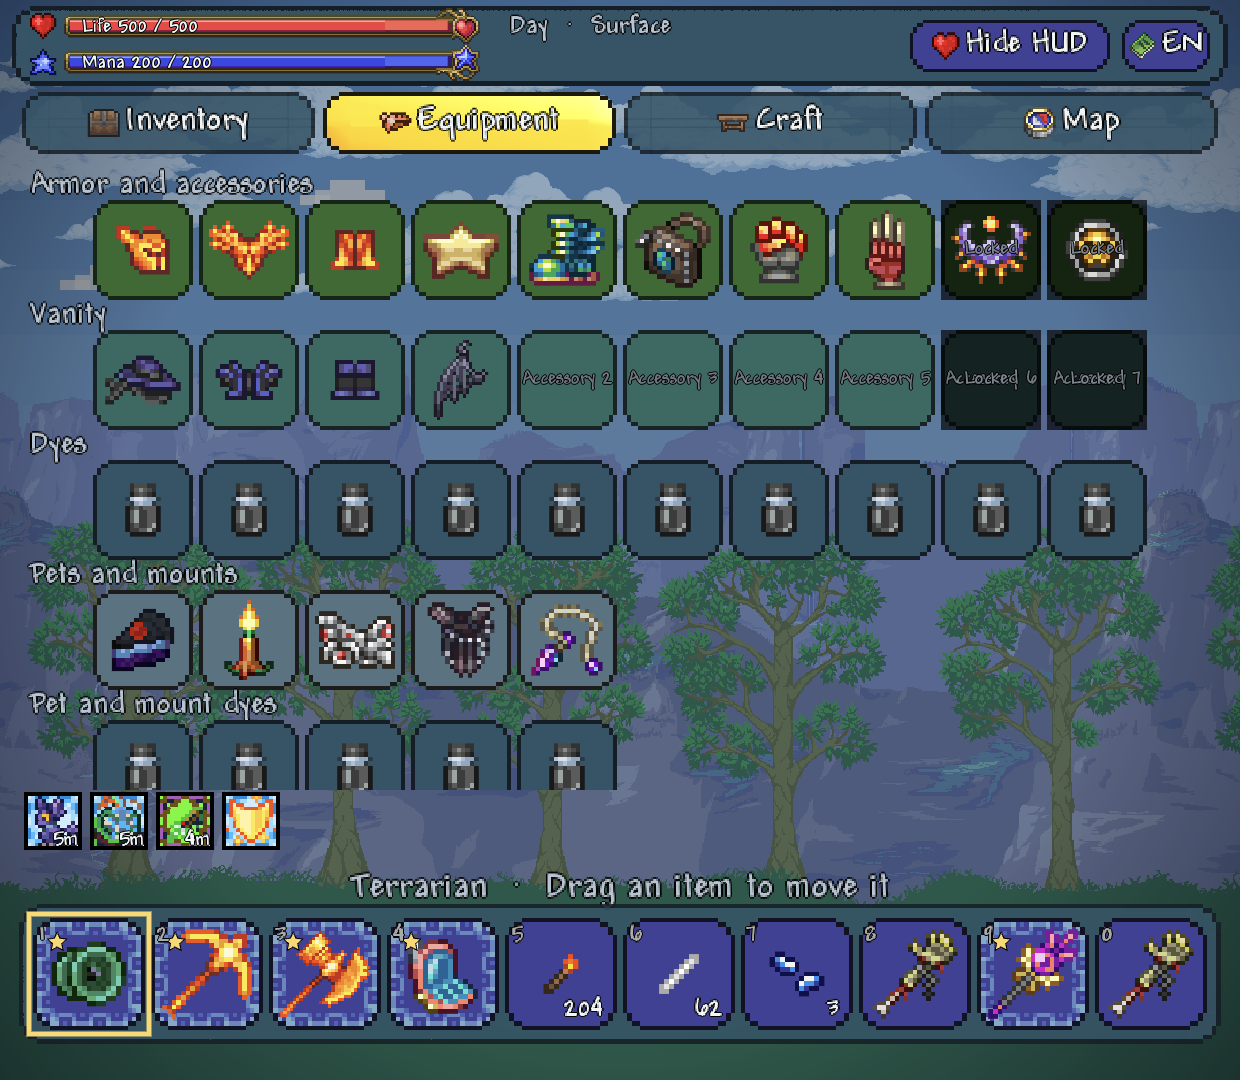
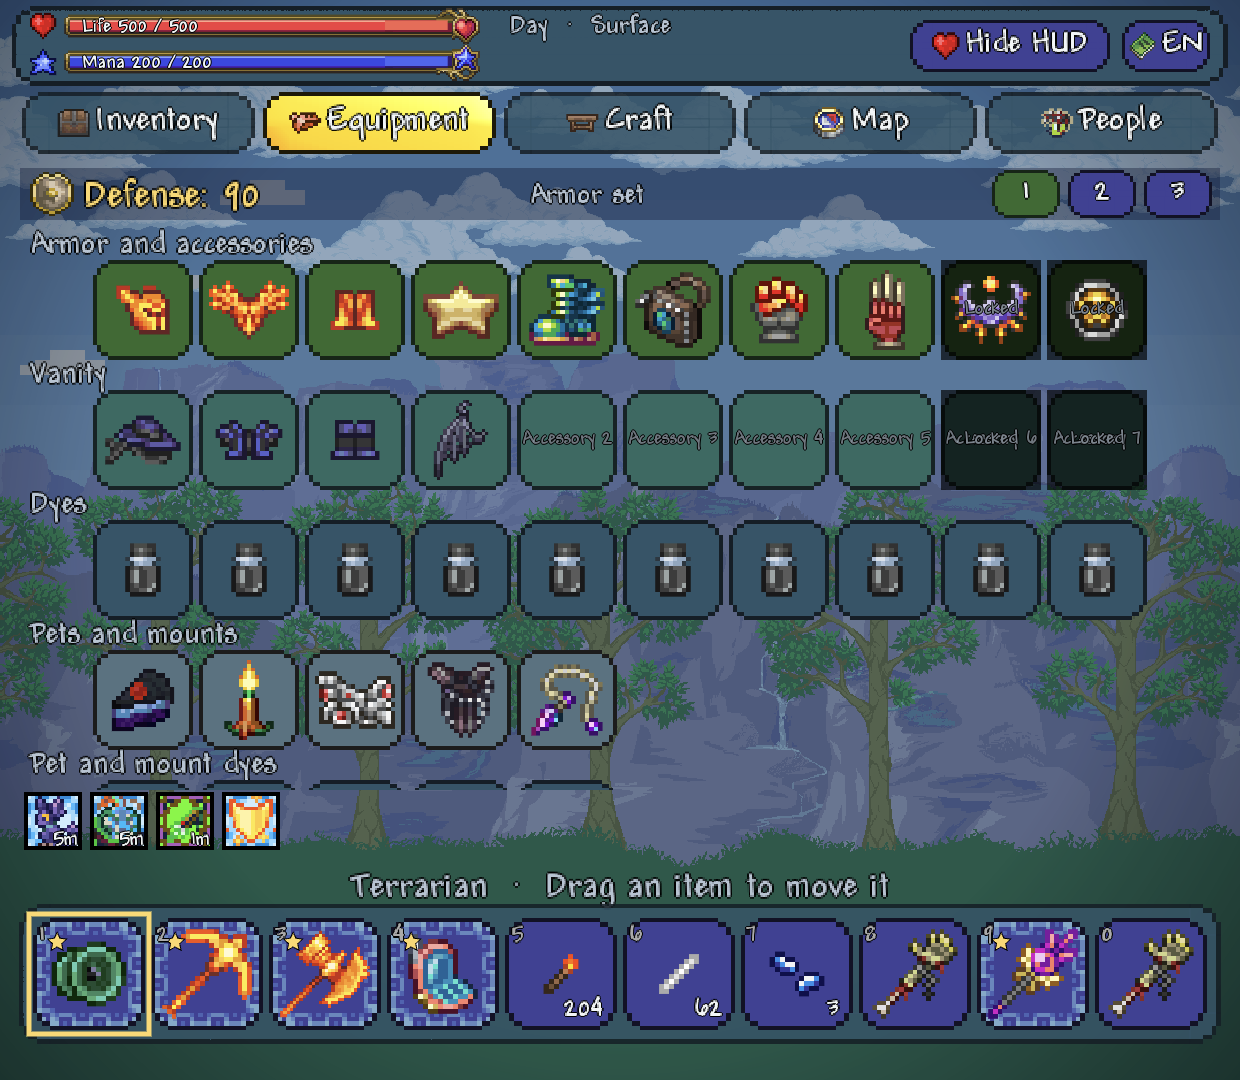
Housing check and move-in for town NPCs; action queue so sounds never drop commands

diff --git a/src/tlpro/Modified/1.mod/actions.js b/src/tlpro/Modified/1.mod/actions.js
@@ -7,6 +7,8 @@ const Main = game.Main;
 const ItemSlot = new NativeClass("Terraria.UI", "ItemSlot");
 const ItemSorting = new NativeClass("Terraria.UI", "ItemSorting");
 const ChestUI = new NativeClass("Terraria.UI", "ChestUI");
+const WorldGenClass = new NativeClass("Terraria", "WorldGen");
+const RoomFeedback = new NativeClass("Terraria.DataStructures", "RichRoomCheckFeedback");
 const NativeObject = new NativeClass("System", "Object");
 
 function safe(read, fallback) {
@@ -230,6 +232,38 @@ function trashSwap(player, request) {
     game.refreshRecipes();
 }
 
+// The game's housing query: is the room around the player a valid home, and can this NPC move in. The game itself
+// draws the room check (blocks, markers) on the main screen through its own feedback object.
+function housing(player, request) {
+    const center = player.get_Center();
+    const x = Math.floor(center.X / 16);
+    const y = Math.floor(center.Y / 16);
+    const feedback = RoomFeedback.Instance;
+    const result = { command: String(request.command) };
+    if (request.command === "check") {
+        result.enclosed = !!WorldGenClass.StartRoomCheck(x, y, feedback);
+        result.tiles = safe(() => WorldGenClass.numRoomTiles, 0);
+        result.needs = result.enclosed ? !!safe(() => WorldGenClass.RoomNeeds(), false) : false;
+        result.missing = [];
+        for (const [field, label] of [["roomTorch", "light"], ["roomDoor", "door"], ["roomChair", "chair"], ["roomTable", "table"]]) {
+            if (result.enclosed && safe(() => WorldGenClass[field], true) === false) {
+                result.missing.push(label);
+            }
+        }
+    } else if (request.command === "move") {
+        const npc = Number.isInteger(request.npc) ? Main.npc[request.npc] : null;
+        if (!npc || !npc.active || !npc.townNPC) {
+            throw new Error("Этого жителя больше нет");
+        }
+        result.ok = !!WorldGenClass.MoveTownNPC(x, y, request.npc, feedback);
+        result.npc = String(safe(() => npc.GivenName, "") || safe(() => npc.TypeName, ""));
+    } else {
+        throw new Error("Неизвестная команда жилья");
+    }
+    game.setHousing(result);
+    game.refreshRecipes();
+}
+
 // Buttons of the chest window, each one runs the game's own routine.
 function chestAction(player, request) {
     if (player.chest === -1 || request.container !== player.chest) {
@@ -345,6 +379,9 @@ function actWithoutSound(player, request) {
             break;
         case "trashswap":
             trashSwap(player, request);
+            break;
+        case "housing":
+            housing(player, request);
             break;
         case "team": {
             const value = request.value;

diff --git a/src/tlpro/Modified/1.mod/game.js b/src/tlpro/Modified/1.mod/game.js
@@ -25,6 +25,13 @@ function playSound(name) {
     } catch (_) { /* sounds are optional */ }
 }
 
+// Result of the last housing check / move-in, shown on the People tab for a short while.
+let lastHousing = null;
+
+function setHousing(result) {
+    lastHousing = Object.assign({ at: Date.now() }, result);
+}
+
 function itemState(item) {
     if (!item || item.type === 0 || item.stack <= 0) {
         return [0, 0, 0, false, ""];
@@ -382,8 +389,8 @@ function readPeople(player) {
         for (let index = 0; index < list.length && npcs.length < 40; index++) {
             const npc = list[index];
             if (npc && npc.active && npc.townNPC) {
-                npcs.push([NPCClass.TypeToDefaultHeadIndex(npc.type), String(safe(() => npc.GivenName, "")),
-                    !!npc.homeless, npc.homeTileX, npc.homeTileY, npc.type, npc.life, npc.lifeMax]);
+                npcs.push([NPCClass.TypeToDefaultHeadIndex(npc.type), String(safe(() => npc.GivenName, "")) || String(safe(() => npc.TypeName, "")),
+                    !!npc.homeless, npc.homeTileX, npc.homeTileY, npc.type, npc.life, npc.lifeMax, index]);
             }
         }
     } catch (_) { /* no npc list */ }
@@ -472,6 +479,7 @@ function snapshot(player, pane, page) {
         buffs: readBuffs(player),
         info: readInfo(player),
         chest: readChest(player),
+        housing: lastHousing && Date.now() - lastHousing.at < 20000 ? lastHousing : null,
         defense: safe(() => player.statDefense, 0),
         loadout: safe(() => player.CurrentLoadoutIndex, 0),
         team: safe(() => player.team, 0),
@@ -534,4 +542,4 @@ function backgrounds() {
     return result;
 }
 
-export { Main, snapshot, select, transfer, craft, backgrounds, slots, slotRef, sameItem, refreshRecipes, playSound };
+export { setHousing, Main, snapshot, select, transfer, craft, backgrounds, slots, slotRef, sameItem, refreshRecipes, playSound };

diff --git a/src/companion/java/com/terraduo/companion/TerraPanel.java b/src/companion/java/com/terraduo/companion/TerraPanel.java
@@ -1194,6 +1194,25 @@ final class TerraPanel extends View {
         neededHeight = Math.max(neededHeight, y - top + scrollY);
     }
 
+    /** One line about the last housing check / move-in the game reported. */
+    private String housingText() {
+        JSONObject result = latest == null ? null : latest.optJSONObject("housing");
+        if (result == null) return "";
+        if ("move".equals(result.optString("command"))) {
+            return result.optString("npc") + ": " + Strings.get(result.optBoolean("ok") ? "house_moved" : "house_failed");
+        }
+        if (!result.optBoolean("enclosed")) return Strings.get("house_not_enclosed");
+        JSONArray missing = result.optJSONArray("missing");
+        if (missing != null && missing.length() > 0) {
+            StringBuilder text = new StringBuilder(Strings.get("house_missing"));
+            for (int index = 0; index < missing.length(); index++) {
+                text.append(index == 0 ? " " : ", ").append(Strings.get("house_" + missing.optString(index)));
+            }
+            return text.toString();
+        }
+        return Strings.get(result.optBoolean("needs") ? "house_ok" : "house_unsuitable");
+    }
+
     private static final int[] TEAM_COLORS = {0xff5a6578, 0xffd04848, 0xff3fa653, 0xff4a6ed8, 0xffd8c040, 0xffd868b8};
 
     /** The game's housing / players / team page: team and PvP, town NPCs with their homes, other players. */
@@ -1221,6 +1240,8 @@ final class TerraPanel extends View {
         button(canvas, "pvp", "PvP: " + Strings.get(pvp ? "on" : "off"), 30 * s, y, 260 * s, 62 * s, pvp ? 0xff8a2a2f : 0xff2a3a6a, s);
         y += 82 * s;
         drawText(canvas, Strings.get("npcs_town"), 30 * s, y, 28 * s, GOLD, true);
+        String housing = housingText();
+        if (!housing.isEmpty()) drawText(canvas, housing, 30 * s + measure(Strings.get("npcs_town"), 28 * s) + 24 * s, y + 3 * s, 24 * s, 0xffffe9a8, true);
         y += 42 * s;
         JSONArray npcs = people == null ? null : people.optJSONArray("npcs");
         for (int index = 0; npcs != null && index < npcs.length(); index++) {
@@ -1235,7 +1256,12 @@ final class TerraPanel extends View {
             drawText(canvas, npc.optString(1), 110 * s, y + 14 * s, 30 * s, INK, true);
             boolean homeless = npc.optBoolean(2);
             String status = Strings.get(homeless ? "homeless" : "has_home");
-            drawText(canvas, status, w - 50 * s - measure(status, 26 * s), y + 17 * s, 26 * s, homeless ? 0xffffb06a : 0xff7be07b, true);
+            drawText(canvas, status, w - 430 * s - measure(status, 24 * s), y + 17 * s, 24 * s, homeless ? 0xffffb06a : 0xff7be07b, true);
+            int npcIndex = npc.optInt(8, -1);
+            if (npcIndex >= 0) {
+                button(canvas, "house_check_" + npcIndex, Strings.get("house_check"), w - 410 * s, y + 5 * s, 180 * s, 52 * s, 0xff2a3a6a, s);
+                button(canvas, "house_move_" + npcIndex, Strings.get("house_move"), w - 220 * s, y + 5 * s, 180 * s, 52 * s, 0xff347461, s);
+            }
             y += 70 * s;
         }
         if (npcs == null || npcs.length() == 0) {
@@ -2260,6 +2286,16 @@ final class TerraPanel extends View {
         if (!name.startsWith("sheet_") && !name.startsWith("chest_")) sound("tick");
         if (name.startsWith("sheet_")) {
             sheetAction(name.substring(6));
+            return;
+        }
+        if (name.startsWith("house_")) {
+            // house_check_<npc> / house_move_<npc>: the game's own room check at the player's position
+            String[] parts = name.split("_");
+            JSONObject command = op("act");
+            TlProPanel.put(command, "kind", "housing");
+            TlProPanel.put(command, "command", parts[1]);
+            TlProPanel.put(command, "npc", Integer.parseInt(parts[2]));
+            send.accept(command);
             return;
         }
         if (name.startsWith("loadout_") || name.startsWith("team_") || name.equals("pvp")) {

diff --git a/src/companion/java/com/terraduo/companion/TlProActivity.java b/src/companion/java/com/terraduo/companion/TlProActivity.java
@@ -26,7 +26,8 @@ public final class TlProActivity extends Activity {
     private final Runnable poll = this::poll;
     private ExecutorService worker;
     private TerraPanel panel;
-    private JSONObject nextAction;
+    // actions wait in a short queue: a tap sound must never swallow the real command that follows it
+    private final java.util.ArrayDeque<JSONObject> pending = new java.util.ArrayDeque<>();
     private boolean awaitingReply;
 
     @Override protected void onCreate(Bundle state) {
@@ -80,7 +81,7 @@ public final class TlProActivity extends Activity {
         if (worker != null) worker.shutdownNow();
         worker = null;
         awaitingReply = false;
-        nextAction = null;
+        pending.clear();
         super.onPause();
     }
 
@@ -91,8 +92,11 @@ public final class TlProActivity extends Activity {
     }
 
     private void queue(JSONObject action) {
-        if (nextAction == null && worker != null) {
-            nextAction = action;
+        if (worker != null) {
+            boolean sound = "sound".equals(action.optString("op"));
+            if (sound && !pending.isEmpty()) return;   // sounds are optional, commands are not
+            if (pending.size() >= 8) return;
+            pending.add(action);
             refresh();
         }
     }
@@ -105,10 +109,10 @@ public final class TlProActivity extends Activity {
     private void poll() {
         ExecutorService running = worker;
         if (running == null || awaitingReply) return;
-        boolean action = nextAction != null;
-        JSONObject request = panel.request(nextAction);
+        JSONObject queued = pending.poll();
+        boolean action = queued != null;
+        JSONObject request = panel.request(queued);
         int revision = panel.revision();
-        nextAction = null;
         awaitingReply = true;
         running.execute(() -> {
             JSONObject response = exchange(request);
@@ -121,7 +125,7 @@ public final class TlProActivity extends Activity {
                     panel.accept(response, revision, action);
                 }
                 main.removeCallbacks(poll);
-                main.postDelayed(poll, nextAction == null ? panel.pollInterval() : 0);
+                main.postDelayed(poll, pending.isEmpty() ? panel.pollInterval() : 0);
             });
         });
     }

diff --git a/src/companion/java/com/terraduo/companion/Strings.java b/src/companion/java/com/terraduo/companion/Strings.java
@@ -48,6 +48,18 @@ final class Strings {
         put("craft", "Craft", "Крафт", "Fabricación", "Wytwarzanie");
         put("map", "Map", "Карта", "Mapa", "Mapa");
         put("people", "People", "Люди", "Gente", "Ludzie");
+        put("house_check", "Check room", "Проверить", "Revisar", "Sprawdź");
+        put("house_move", "Move in", "Заселить", "Mudar", "Wprowadź");
+        put("house_not_enclosed", "Not a closed room here", "Здесь нет замкнутой комнаты", "Aquí no hay habitación cerrada", "Tu nie ma zamkniętego pokoju");
+        put("house_missing", "Room is closed but lacks", "Комната замкнута, но нет", "La habitación está cerrada pero falta", "Pokój jest zamknięty, ale brak");
+        put("house_unsuitable", "Room does not meet the needs", "Комната не подходит", "La habitación no cumple los requisitos", "Pokój nie spełnia wymagań");
+        put("house_ok", "Room is suitable", "Комната подходит", "La habitación es adecuada", "Pokój nadaje się");
+        put("house_light", "a light", "света", "luz", "światła");
+        put("house_door", "a door", "двери", "puerta", "drzwi");
+        put("house_chair", "a chair", "стула", "silla", "krzesła");
+        put("house_table", "a table", "стола", "mesa", "stołu");
+        put("house_moved", "moved in", "заселён", "se mudó", "wprowadzony");
+        put("house_failed", "cannot move in here", "сюда нельзя заселить", "no puede mudarse aquí", "nie może się tu wprowadzić");
         put("team", "Team", "Команда", "Equipo", "Drużyna");
         put("team_0", "None", "Нет", "Ninguno", "Brak");
         put("team_1", "Red", "Красная", "Rojo", "Czerwona");

diff --git a/CHANGELOG.md b/CHANGELOG.md
@@ -3,6 +3,10 @@
 ## Unreleased
 
 - New People tab: team (colour) and PvP toggle, town NPCs with a housed / homeless status, other players.
+- Housing: each town NPC has "Check room" (the game's own room check at your position, drawn on the main screen, with the
+  result and what is missing on the People tab) and "Move in".
+- Fixed: a tap sound could swallow the command that followed it (armor sets, team, PvP, sort); actions now wait in a short
+  queue.
 - Equipment tab shows your total defense and the three armour sets (equipment loadouts) with one-tap switching.
 
 ## 1.0.4
